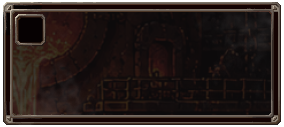
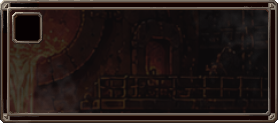
v0.7.37

diff --git a/src/styles/global.css b/src/styles/global.css
@@ -1,12 +1,28 @@
 @font-face{font-family:'DNF Forged Blade Medium';src:url('../assets/fonts/DNFForgedBlade-Medium.ttf') format('truetype');font-style:normal;font-weight:400;font-display:swap}
 @font-face{font-family:'DNF Forged Blade Bold';src:url('../assets/fonts/DNFForgedBlade-Bold.ttf') format('truetype');font-style:normal;font-weight:700;font-display:swap}
-html .monster-party-frame__count-content{left:8%!important;right:8%!important;top:27%!important;bottom:12%!important}
+.monster-party-frame__count>.monster-party-frame__count-title{position:absolute!important;z-index:3;left:0!important;right:0!important;top:16.5%!important;display:grid!important;place-items:center!important;width:auto!important;transform:translate(.104167vw,0)!important;justify-self:center;color:#f0d09b;font:700 clamp(.62rem,.85vw,.95rem) 'DNF Forged Blade Medium',sans-serif;text-align:center}
+html:root .monster-party-frame__detail-content>.monster-party-frame__selected-name{display:flex!important;justify-content:flex-start!important;align-items:center!important;text-align:left!important}html:root .monster-party-frame__detail-content>.monster-party-frame__selected-name>.monster-party-frame__selected-name-text{position:absolute;left:9.14%;top:50%;transform:translate(-50%,-50%);white-space:nowrap}
+html .monster-party-frame__detail-content>.monster-party-frame__health-segments{position:absolute!important;z-index:3;left:auto!important;top:auto!important;right:calc(9.11% - 2px)!important;bottom:11.09%!important;display:grid!important;width:48.96%!important;height:4.70%!important;grid-template-columns:repeat(20,minmax(0,1fr))!important;gap:0!important;transform:none!important}html .monster-party-frame__detail-content>.monster-party-frame__health-segments img{display:block!important;justify-self:stretch!important;width:100%!important;height:100%!important;max-width:none!important;max-height:none!important;object-fit:fill!important}html .monster-party-frame__detail-content>.monster-party-frame__health-value{position:absolute!important;z-index:4;left:auto!important;top:auto!important;right:calc(33.59% - 2px)!important;bottom:13.44%!important;transform:translate(50%,50%);color:#f5e4c6;font-size:calc(clamp(.55rem,.75vw,.85rem) + 2px)!important;white-space:nowrap;text-shadow:0 1px 2px #000}
+html .monster-party-frame__detail-content>.monster-party-frame__health .monster-party-frame__health-frame{display:block;width:100%!important;height:auto!important;transform:none;object-fit:contain}
+html .monster-party-frame__detail-content>.monster-party-frame__health--normal .monster-party-frame__health-frame{position:relative;left:0;width:84.612175%!important;margin-left:auto;margin-right:0}html .monster-party-frame__detail-content>.monster-party-frame__health--elite .monster-party-frame__health-frame{position:relative;left:0;width:88.687224%!important;margin-left:auto;margin-right:0}html .monster-party-frame__detail-content>.monster-party-frame__health--boss .monster-party-frame__health-frame{position:relative;left:0;width:97.823143%!important;margin-left:auto;margin-right:0}
+html:root .monster-party-frame__detail-content>.monster-party-frame__health{left:2.5%!important;right:2.5%!important;bottom:2.651146%!important;overflow:visible!important;clip-path:none!important;--segment-width:330px;--segment-height:30px;--segment-half-width:165px;--segment-half-height:15px}html:root .monster-party-frame__detail-content>.monster-party-frame__health .monster-party-frame__health-frame{overflow:visible!important;clip-path:none!important}html:root .monster-party-frame__detail-content>.monster-party-frame__health--normal{--gauge-left:33.326316%;--gauge-right:18.168421%;--gauge-top:48.463158%;--gauge-bottom:21.221053%}html:root .monster-party-frame__detail-content>.monster-party-frame__health--elite{--gauge-left:34.084211%;--gauge-right:18.168421%;--gauge-top:49.978947%;--gauge-bottom:20.463158%}html:root .monster-party-frame__detail-content>.monster-party-frame__health--boss{--gauge-left:40.905263%;--gauge-right:17.410526%;--gauge-top:53.768421%;--gauge-bottom:18.947368%}
+.monster-party-frame__detail-content>.monster-party-frame__health .monster-party-frame__health-segments{transform:translateY(-1.388889vh)}html .monster-party-frame__detail-content>.monster-party-frame__status-list{left:calc(var(--monster-status-anchor) + .78125vw)!important;right:auto!important;justify-content:flex-start!important}.monster-party-frame__detail-content>.monster-party-frame__status-list .status-effect,.monster-party-frame__detail-content>.monster-party-frame__status-list .status-effect>span,.monster-party-frame__detail-content>.monster-party-frame__status-list .status-effect__icon{width:1.95rem!important;height:1.95rem!important;min-width:1.95rem!important}
+html:root .monster-party-frame__detail-content>.monster-party-frame__status-list{left:calc(var(--monster-status-anchor) + .78125vw - 3.645833vw)!important;right:auto!important;bottom:calc(24% - 2.314815vh)!important;display:flex!important;flex-direction:row!important;align-items:center!important;justify-content:flex-start!important;flex-wrap:nowrap!important;gap:1px!important;overflow:visible!important}html:root .monster-party-frame__detail-content>.monster-party-frame__status-list .status-effect{width:1.95rem!important;height:1.95rem!important;min-width:1.95rem!important;padding:0!important;overflow:visible!important;background:none!important}html:root .monster-party-frame__detail-content>.monster-party-frame__status-list .status-effect>span{display:grid!important;width:1.95rem!important;height:1.95rem!important;min-width:1.95rem!important;overflow:visible!important}html:root .monster-party-frame__detail-content>.monster-party-frame__status-list .status-effect__icon{display:block!important;width:100%!important;height:100%!important;max-width:none!important;max-height:none!important;object-fit:contain!important;overflow:visible!important}
+html .monster-party-frame__detail-content>.monster-party-frame__health .monster-party-frame__health-segments{position:absolute!important;left:auto!important;right:calc(100% - var(--gauge-left) - 2.083333vw - 330px)!important;bottom:auto!important;display:grid!important;width:var(--segment-width)!important;height:var(--segment-height)!important;grid-template-columns:repeat(20,minmax(0,1fr))!important;gap:0!important}html .monster-party-frame__detail-content>.monster-party-frame__health .monster-party-frame__health-segments img{display:block!important;justify-self:stretch!important;width:100%!important;height:100%!important;max-width:none!important;max-height:none!important;object-fit:fill!important}html:root .monster-party-frame__detail-content>.monster-party-frame__health .monster-party-frame__health-segments img.is-filled,html:root .monster-party-frame__detail-content>.monster-party-frame__health .monster-party-frame__health-segments img.is-empty{max-width:none!important;max-height:none!important}html .monster-party-frame__detail-content>.monster-party-frame__health small{left:calc(var(--gauge-left) + 2.083333vw - 23px + var(--segment-half-width))!important;top:calc(var(--gauge-top) + var(--segment-half-height) - 1.388889vh)!important;transform:translate(-50%,-50%);font-size:calc(clamp(.55rem,.75vw,.85rem) + 2px)!important}
+html .monster-party-frame__count-content .monster-party-frame__normal--quarter{width:calc(100% - .520833vw)!important}html .monster-party-frame__count-content:has(.monster-party-frame__normal--quarter){transform:translate(.15625vw,.740741vh)}html .monster-party-frame__count-content .monster-party-frame__normal--quarter .monster-party-frame__slot{background-size:105% 105%!important}
+.monster-party-frame__normal--half,.monster-party-frame__normal--quarter{gap:0!important}.monster-party-frame__normal--half{position:relative;width:calc(100% - .520833vw)!important;grid-template-columns:repeat(2,minmax(0,1fr))!important;transform:translate(.260417vw,.740741vh);overflow:visible!important}.monster-party-frame__normal--quarter{grid-template-columns:repeat(4,minmax(0,1fr))!important}.monster-party-frame__normal--half .monster-party-frame__slot,.monster-party-frame__normal--quarter .monster-party-frame__slot{width:100%!important;height:100%!important;min-width:0!important;min-height:0!important;aspect-ratio:auto!important;transform:none;flex:none;background-size:100% 100%!important}.monster-party-frame__count-content:has(.monster-party-frame__normal--half){overflow:visible!important}
+html .monster-party-frame__count-content>strong{left:0!important;right:0!important;top:-29%!important;width:auto!important;place-items:center!important;text-align:center!important}html .monster-party-frame__count-content .monster-party-frame__normal{height:100%!important;margin-top:0!important;padding:0!important;gap:0!important}html .monster-party-frame__count-content .monster-party-frame__slot{padding:0!important;background-size:100% 100%!important}html .monster-party-frame__count-content .monster-party-frame__slot>b{left:13%!important;top:10%!important}html .monster-party-frame__detail-content>.monster-party-frame__selected-name{left:calc(21% + 5px)!important;right:6%!important;top:calc(2% - 5px)!important;width:auto!important;height:14%!important}html .monster-party-frame__detail-content>.monster-party-frame__health{left:14%!important;right:14%!important;bottom:5%!important}.monster-party-frame__health.monster-party-frame__health{overflow:hidden!important}
+html .monster-party-frame__count-content{left:.5%!important;right:.5%!important;top:27%!important;bottom:auto!important;aspect-ratio:650 / 144!important}
+.monster-party-frame__normal--half .monster-party-frame__slot>b{transform:translate(-.520833vw,.648148vh);font-size:calc(clamp(.45rem,.65vw,.75rem) + 2.6667px)!important}.monster-party-frame__normal--half .monster-party-frame__slot i{width:85%;justify-self:center}.monster-party-frame__normal--half .monster-party-frame__slot small{font-size:calc(clamp(.35rem,.48vw,.55rem) + 2.6667px)!important}.monster-party-frame__normal--half .monster-party-frame__slot::before{background-position:center top!important;background-size:auto 200%!important}
+.monster-party-frame__normal--half .monster-party-frame__slot>b{border-right:0!important}.monster-party-frame__normal--half .monster-party-frame__slot::before,.monster-party-frame__normal--quarter .monster-party-frame__slot::before{visibility:hidden!important}.monster-party-frame__normal--half .monster-party-frame__slot-portrait,.monster-party-frame__normal--quarter .monster-party-frame__slot-portrait{position:absolute!important;z-index:1;left:22%;right:22%;top:16%;bottom:10%;display:block!important;overflow:hidden!important;pointer-events:none!important;transform:translateY(-.925926vh)}.monster-party-frame__normal--half .monster-party-frame__slot-portrait img,.monster-party-frame__normal--quarter .monster-party-frame__slot-portrait img{position:absolute;top:0;left:0;display:block;width:100%;height:auto;transform:scale(.7);transform-origin:center top;pointer-events:none}.monster-party-frame__normal--half .monster-party-frame__slot>span:not(.monster-party-frame__slot-portrait),.monster-party-frame__normal--quarter .monster-party-frame__slot>span:not(.monster-party-frame__slot-portrait){position:relative;z-index:3}.battle-screen>.monster-slots{display:none!important}
+html .monster-party-frame__count-content .monster-party-frame__normal--quarter .monster-party-frame__slot>b{border-right:0!important;transform:translate(.208333vw,.555556vh);font-size:calc(clamp(.45rem,.65vw,.75rem) + 2.6667px)!important}html .monster-party-frame__count-content .monster-party-frame__normal--quarter .monster-party-frame__slot i{width:68%;justify-self:center}html .monster-party-frame__count-content .monster-party-frame__normal--quarter .monster-party-frame__slot small{font-size:calc(clamp(.35rem,.48vw,.55rem) + 2.6667px)!important}
+.monster-party-frame__count-content .monster-party-frame__slot.in-range{outline:2px solid #71c96b;outline-offset:-2px}
 .monster-party-frame__count-content>strong{position:absolute!important;z-index:3;left:0!important;right:0!important;top:-31%!important;display:grid!important;place-items:center!important;transform:none!important;text-align:center}.monster-party-frame__count-content{left:12%!important;right:12%!important;top:39%!important;bottom:21%!important;overflow:hidden!important}.monster-party-frame__count-content .monster-party-frame__normal{height:100%!important;overflow:hidden}.monster-party-frame__count-content .monster-party-frame__slot{min-height:0!important;max-height:100%!important;overflow:hidden!important}.monster-party-frame__count-content .monster-party-frame__slot::before{min-height:0!important;background-size:contain!important}.monster-party-frame__count-content .monster-party-frame__slot>span{min-height:0!important;overflow:hidden}.monster-party-frame__detail-content>.monster-party-frame__selected-name{left:18%!important;right:8%!important;top:3%!important;width:auto!important;height:13%!important}
 .monster-party-frame__count-content{left:10%!important;right:10%!important;top:30%!important;bottom:16%!important;display:block!important}.monster-party-frame__normal--half{grid-template-columns:repeat(2,minmax(0,1fr))!important}.monster-party-frame__normal--quarter{grid-template-columns:repeat(4,minmax(0,1fr))!important}.monster-party-frame__count-content .monster-party-frame__slot{position:relative;display:grid!important;grid-template-columns:1fr!important;min-height:0!important;padding:3px!important;border:0!important;background:transparent!important;overflow:hidden}.monster-party-frame__count-content .monster-party-frame__slot>b{position:absolute;z-index:2;display:block!important;left:4%;top:2%;color:#f0d09b;font-size:clamp(.45rem,.65vw,.75rem)}.monster-party-frame__count-content .monster-party-frame__slot>span{display:grid;grid-template-rows:minmax(0,1fr) auto;gap:1px}.monster-party-frame__count-content .monster-party-frame__slot strong{display:none}.monster-party-frame__count-content .monster-party-frame__slot i{align-self:end;height:.28rem}.monster-party-frame__count-content .monster-party-frame__slot small{display:block!important;color:#f1dfc2;font-size:clamp(.35rem,.48vw,.55rem);text-align:center}.monster-party-frame__count-content .monster-party-frame__slot.selected{box-shadow:inset 0 0 0 1px #f0a249,0 0 .35rem #e7642b99}.monster-party-frame__count-content .monster-party-frame__slot::before{content:'';display:block;background:var(--monster-slot-image) center/contain no-repeat}
 .monster-party-frame__count-layout{position:absolute;z-index:1;left:8%;top:27%;width:84%;height:61%;object-fit:contain;pointer-events:none}.monster-party-frame__count-content{z-index:2!important}
 .monster-party-frame__count-layout{display:none}.monster-party-frame__count-content .monster-party-frame__normal{width:100%;height:100%;padding:0;box-sizing:border-box;background:none}.monster-party-frame__count-content .monster-party-frame__slot{background:var(--monster-card-frame) center/100% 100% no-repeat!important;padding:8%!important}
 .monster-party-frame__detail-content>.status-effect-list{bottom:24%!important;display:flex!important;justify-content:flex-start!important;gap:.15rem!important}.monster-party-frame__detail-content .status-effect{position:relative;display:grid;width:1.5rem;height:1.5rem;min-width:1.5rem;place-items:center;padding:0;border:0;background:none}.monster-party-frame__detail-content .status-effect>span,.monster-party-frame__detail-content .status-effect__icon{width:1.5rem;height:1.5rem}.monster-party-frame__detail-content .status-effect em{right:0;bottom:0;display:grid;min-width:.72rem;height:.72rem;place-items:center;padding:0;border:1px solid #a6623d;border-radius:2px;background:#130c09;color:#fff1d7;font-size:.48rem;line-height:1}.monster-party-frame__health--normal small{left:60%!important;top:52%!important}.monster-party-frame__health--elite small{left:60.5%!important;top:53%!important}.monster-party-frame__health--boss small{left:65.5%!important;top:57%!important}
-.monster-party-frame__count-content>strong{transform:translateY(-14%)!important}.monster-party-frame__detail-content>.monster-party-frame__selected-name{top:4%!important}.monster-party-frame__detail-content>.status-effect-list{bottom:0!important}.monster-party-frame__detail-content>.monster-party-frame__health{bottom:9%!important}.monster-party-frame__health.monster-party-frame__health .monster-party-frame__health-segments img.is-filled{max-width:68.4%!important;max-height:68.4%!important}.monster-party-frame__health.monster-party-frame__health .monster-party-frame__health-segments img.is-empty{width:100%!important;height:100%!important;max-width:none!important;max-height:none!important;object-fit:fill!important}
+.monster-party-frame__count-content>strong{transform:translate(.104167vw,calc(-14% + 1.75926vh))!important}.monster-party-frame__detail-content>.monster-party-frame__selected-name{top:4%!important}.monster-party-frame__detail-content>.status-effect-list{bottom:0!important}.monster-party-frame__detail-content>.monster-party-frame__health{bottom:9%!important}.monster-party-frame__health.monster-party-frame__health .monster-party-frame__health-segments img.is-filled{max-width:68.4%!important;max-height:68.4%!important}.monster-party-frame__health.monster-party-frame__health .monster-party-frame__health-segments img.is-empty{width:100%!important;height:100%!important;max-width:none!important;max-height:none!important;object-fit:fill!important}
 .monster-party-frame{z-index:70!important}.monster-party-frame__detail-content>.monster-party-frame__selected-name{left:12%!important;right:12%!important;top:6%!important;width:auto!important;height:12%!important;place-items:center!important;text-align:center!important}.monster-party-frame__detail-content>.monster-party-frame__portrait{left:16%!important;right:16%!important;top:21%!important;bottom:31%!important}.monster-party-frame__portrait img{max-width:66%!important;max-height:86%!important;object-fit:contain}.monster-party-frame__detail-content>.status-effect-list{bottom:23%!important}.monster-party-frame__detail-content>.monster-party-frame__health{left:12%!important;right:12%!important;bottom:7%!important}.monster-party-frame__health.monster-party-frame__health .monster-party-frame__health-segments{overflow:hidden}.monster-party-frame__health.monster-party-frame__health .monster-party-frame__health-segments img{max-width:76%!important;max-height:76%!important}
 .battle-screen>.monster-slots .monster-slot__portrait{display:none}.monster-party-frame__detail-content{display:block!important;inset:0!important}.monster-party-frame__detail-content>.monster-party-frame__selected-name{position:absolute!important;left:13%!important;right:auto!important;top:6%!important;width:46%!important;height:12%!important;display:grid!important;place-items:center start!important;text-align:left!important}.monster-party-frame__detail-content>.monster-party-frame__portrait{position:absolute!important;left:12%!important;right:12%!important;top:20%!important;bottom:29%!important;display:grid!important;place-items:center!important;height:auto!important;padding:0!important}.monster-party-frame__detail-content>.monster-party-frame__health{position:absolute!important;left:12%!important;right:12%!important;bottom:9%!important;width:auto!important}.monster-party-frame__detail-content>.status-effect-list{position:absolute!important;left:12%!important;right:12%!important;bottom:24%!important;justify-content:center}
 .monster-party-frame__detail-content>.monster-party-frame__selected-name{left:13%;right:auto;top:6%;width:46%;height:12%;justify-content:start;text-align:left}.monster-party-frame__detail-content>.monster-party-frame__portrait{grid-row:3;align-self:center;justify-self:stretch;height:100%;padding-top:7%;box-sizing:border-box}.monster-party-frame__detail-content>.monster-party-frame__health{grid-row:5;align-self:end;justify-self:stretch}.monster-party-frame__health.monster-party-frame__health .monster-party-frame__health-segments img{width:auto;height:auto;max-width:84%;max-height:84%}

diff --git a/src/screens/battle/components/MonsterPartyFrame.jsx b/src/screens/battle/components/MonsterPartyFrame.jsx
@@ -22,11 +22,14 @@ export function MonsterPartyFrame({
 }) {
   const bySlot = new Map(combatants.map((entry) => [entry.slotId, entry]))
   const selectedMonster = combatants.find(({ instanceId }) => instanceId === selectedMonsterId)
-  const healthSegments = Array.from({ length: 10 }, (_, index) => index)
+  const healthSegments = Array.from({ length: 20 }, (_, index) => index)
   const selectedMonsterGrade = battleType === 'boss'
     ? 'boss'
     : (selectedMonster?.gradeId === 'named' || selectedMonster?.grade === 'named' ? 'elite' : 'normal')
   const healthFrame = { normal: monsterHpNormal, elite: monsterHpElite, boss: monsterHpBoss }[selectedMonsterGrade]
+  const filledHealthSegmentCount = selectedMonster?.currentHealth > 0
+    ? Math.max(1, Math.ceil(selectedMonster.currentHealth / selectedMonster.health * healthSegments.length))
+    : 0
   const countFrame = combatants.length <= 2 ? monsterInfoHalfFrame : monsterInfoQuarterFrame
   const renderSlot = (slotId) => {
     const monster = bySlot.get(slotId)
@@ -62,6 +65,11 @@ export function MonsterPartyFrame({
         aria-label={`${slotId}번 ${monster.name}, 체력 ${monster.currentHealth}/${monster.health}${selected ? ', 현재 중심 대상' : inRange ? ', 범위 대상' : ''}`}
       >
         <b>{slotId}</b>
+        {monster.imageUrl && (
+          <span className="monster-party-frame__slot-portrait" aria-hidden="true">
+            <img src={monster.imageUrl} alt="" />
+          </span>
+        )}
         <span>
           <strong>{monster.name}</strong>
           <i><em style={{ width: `${Math.max(0, monster.currentHealth / monster.health) * 100}%` }} /></i>
@@ -75,8 +83,8 @@ export function MonsterPartyFrame({
     <div className="monster-party-frame" aria-label="몬스터 고정 슬롯 정보">
       <section className="monster-party-frame__count" aria-label="참여 적 목록">
         <img className="monster-party-frame__frame" src={monsterCountFrame} alt="" aria-hidden="true" />
+        <strong className="monster-party-frame__count-title">적 정보</strong>
         <div className="monster-party-frame__count-content">
-          <strong>적 정보</strong>
           <div
             className={`monster-party-frame__normal monster-party-frame__normal--${combatants.length <= 2 ? 'half' : 'quarter'}`}
           >
@@ -93,22 +101,27 @@ export function MonsterPartyFrame({
         {selectedMonster && (
           <div className="monster-party-frame__detail-content">
             <span className="monster-party-frame__detail-label">적 상세 정보</span>
-            <strong className="monster-party-frame__selected-name" style={{ left: '13%', right: 'auto', top: '6%', width: '46%', height: '12%', justifyContent: 'start', textAlign: 'left' }}>{selectedMonster.name}</strong>
+            <strong className="monster-party-frame__selected-name" style={{ left: '13%', right: 'auto', top: '6%', width: '46%', height: '12%', justifyContent: 'start', textAlign: 'left' }}><span className="monster-party-frame__selected-name-text">{selectedMonster.name}</span></strong>
             <span className="monster-party-frame__portrait" style={{ gridRow: 3, alignSelf: 'center', justifySelf: 'stretch', height: '100%', paddingTop: '7%', boxSizing: 'border-box' }}>
               {selectedMonster.imageUrl
                 ? <img src={selectedMonster.imageUrl} alt="" />
                 : <i aria-hidden="true">{selectedMonster.glyph}</i>}
             </span>
-            <StatusEffectList statuses={selectedMonster.statuses} ownerName={selectedMonster.name} />
+            <StatusEffectList
+              statuses={selectedMonster.statuses}
+              ownerName={selectedMonster.name}
+              className="monster-party-frame__status-list"
+              style={{ '--monster-status-anchor': selectedMonsterGrade === 'boss' ? '40.88%' : selectedMonsterGrade === 'elite' ? '34.04%' : '33.28%' }}
+            />
             <span className={`monster-party-frame__health monster-party-frame__health--${selectedMonsterGrade}`} style={{ gridRow: 5, alignSelf: 'end', justifySelf: 'stretch' }}>
               <img className="monster-party-frame__health-frame" src={healthFrame} alt="" />
-              <span className="monster-party-frame__health-segments" aria-hidden="true">
-                {healthSegments.map((index) => (
-                  <img className={index < Math.ceil(selectedMonster.currentHealth / selectedMonster.health * healthSegments.length) ? 'is-filled' : 'is-empty'} key={index} src={index < Math.ceil(selectedMonster.currentHealth / selectedMonster.health * healthSegments.length) ? monsterHpBlock : monsterHpEmpty} alt="" />
-                ))}
-              </span>
-              <small>{selectedMonster.currentHealth}/{selectedMonster.health}</small>
             </span>
+            <span className="monster-party-frame__health-segments" aria-hidden="true">
+              {healthSegments.map((index) => (
+                <img className={index < filledHealthSegmentCount ? 'is-filled' : 'is-empty'} key={index} src={index < filledHealthSegmentCount ? monsterHpBlock : monsterHpEmpty} alt="" />
+              ))}
+            </span>
+            <small className="monster-party-frame__health-value">{selectedMonster.currentHealth}/{selectedMonster.health}</small>
           </div>
         )}
       </section>

diff --git a/src/screens/battle/components/StatusEffectList.jsx b/src/screens/battle/components/StatusEffectList.jsx
@@ -28,7 +28,7 @@ const STATUS_DISPLAY_PRIORITY = Object.freeze({
   control: 3,
 })
 
-export function StatusEffectList({ statuses = [], ownerName }) {
+export function StatusEffectList({ statuses = [], ownerName, className = '', style }) {
   const visibleStatuses = statuses
     .map((status) => ({ ...status, definition: STATUS_EFFECTS[status.id] }))
     .filter(({ definition, stacks }) => definition && stacks > 0)
@@ -38,7 +38,7 @@ export function StatusEffectList({ statuses = [], ownerName }) {
   if (!visibleStatuses.length) return null
 
   return (
-    <div className="status-effect-list" aria-label={`${ownerName} 상태 효과`}>
+    <div className={`status-effect-list ${className}`.trim()} style={style} aria-label={`${ownerName} 상태 효과`}>
       {visibleStatuses.map(({ id, stacks, definition }) => (
         <span
           className={`status-effect status-effect--${definition.category}`}
